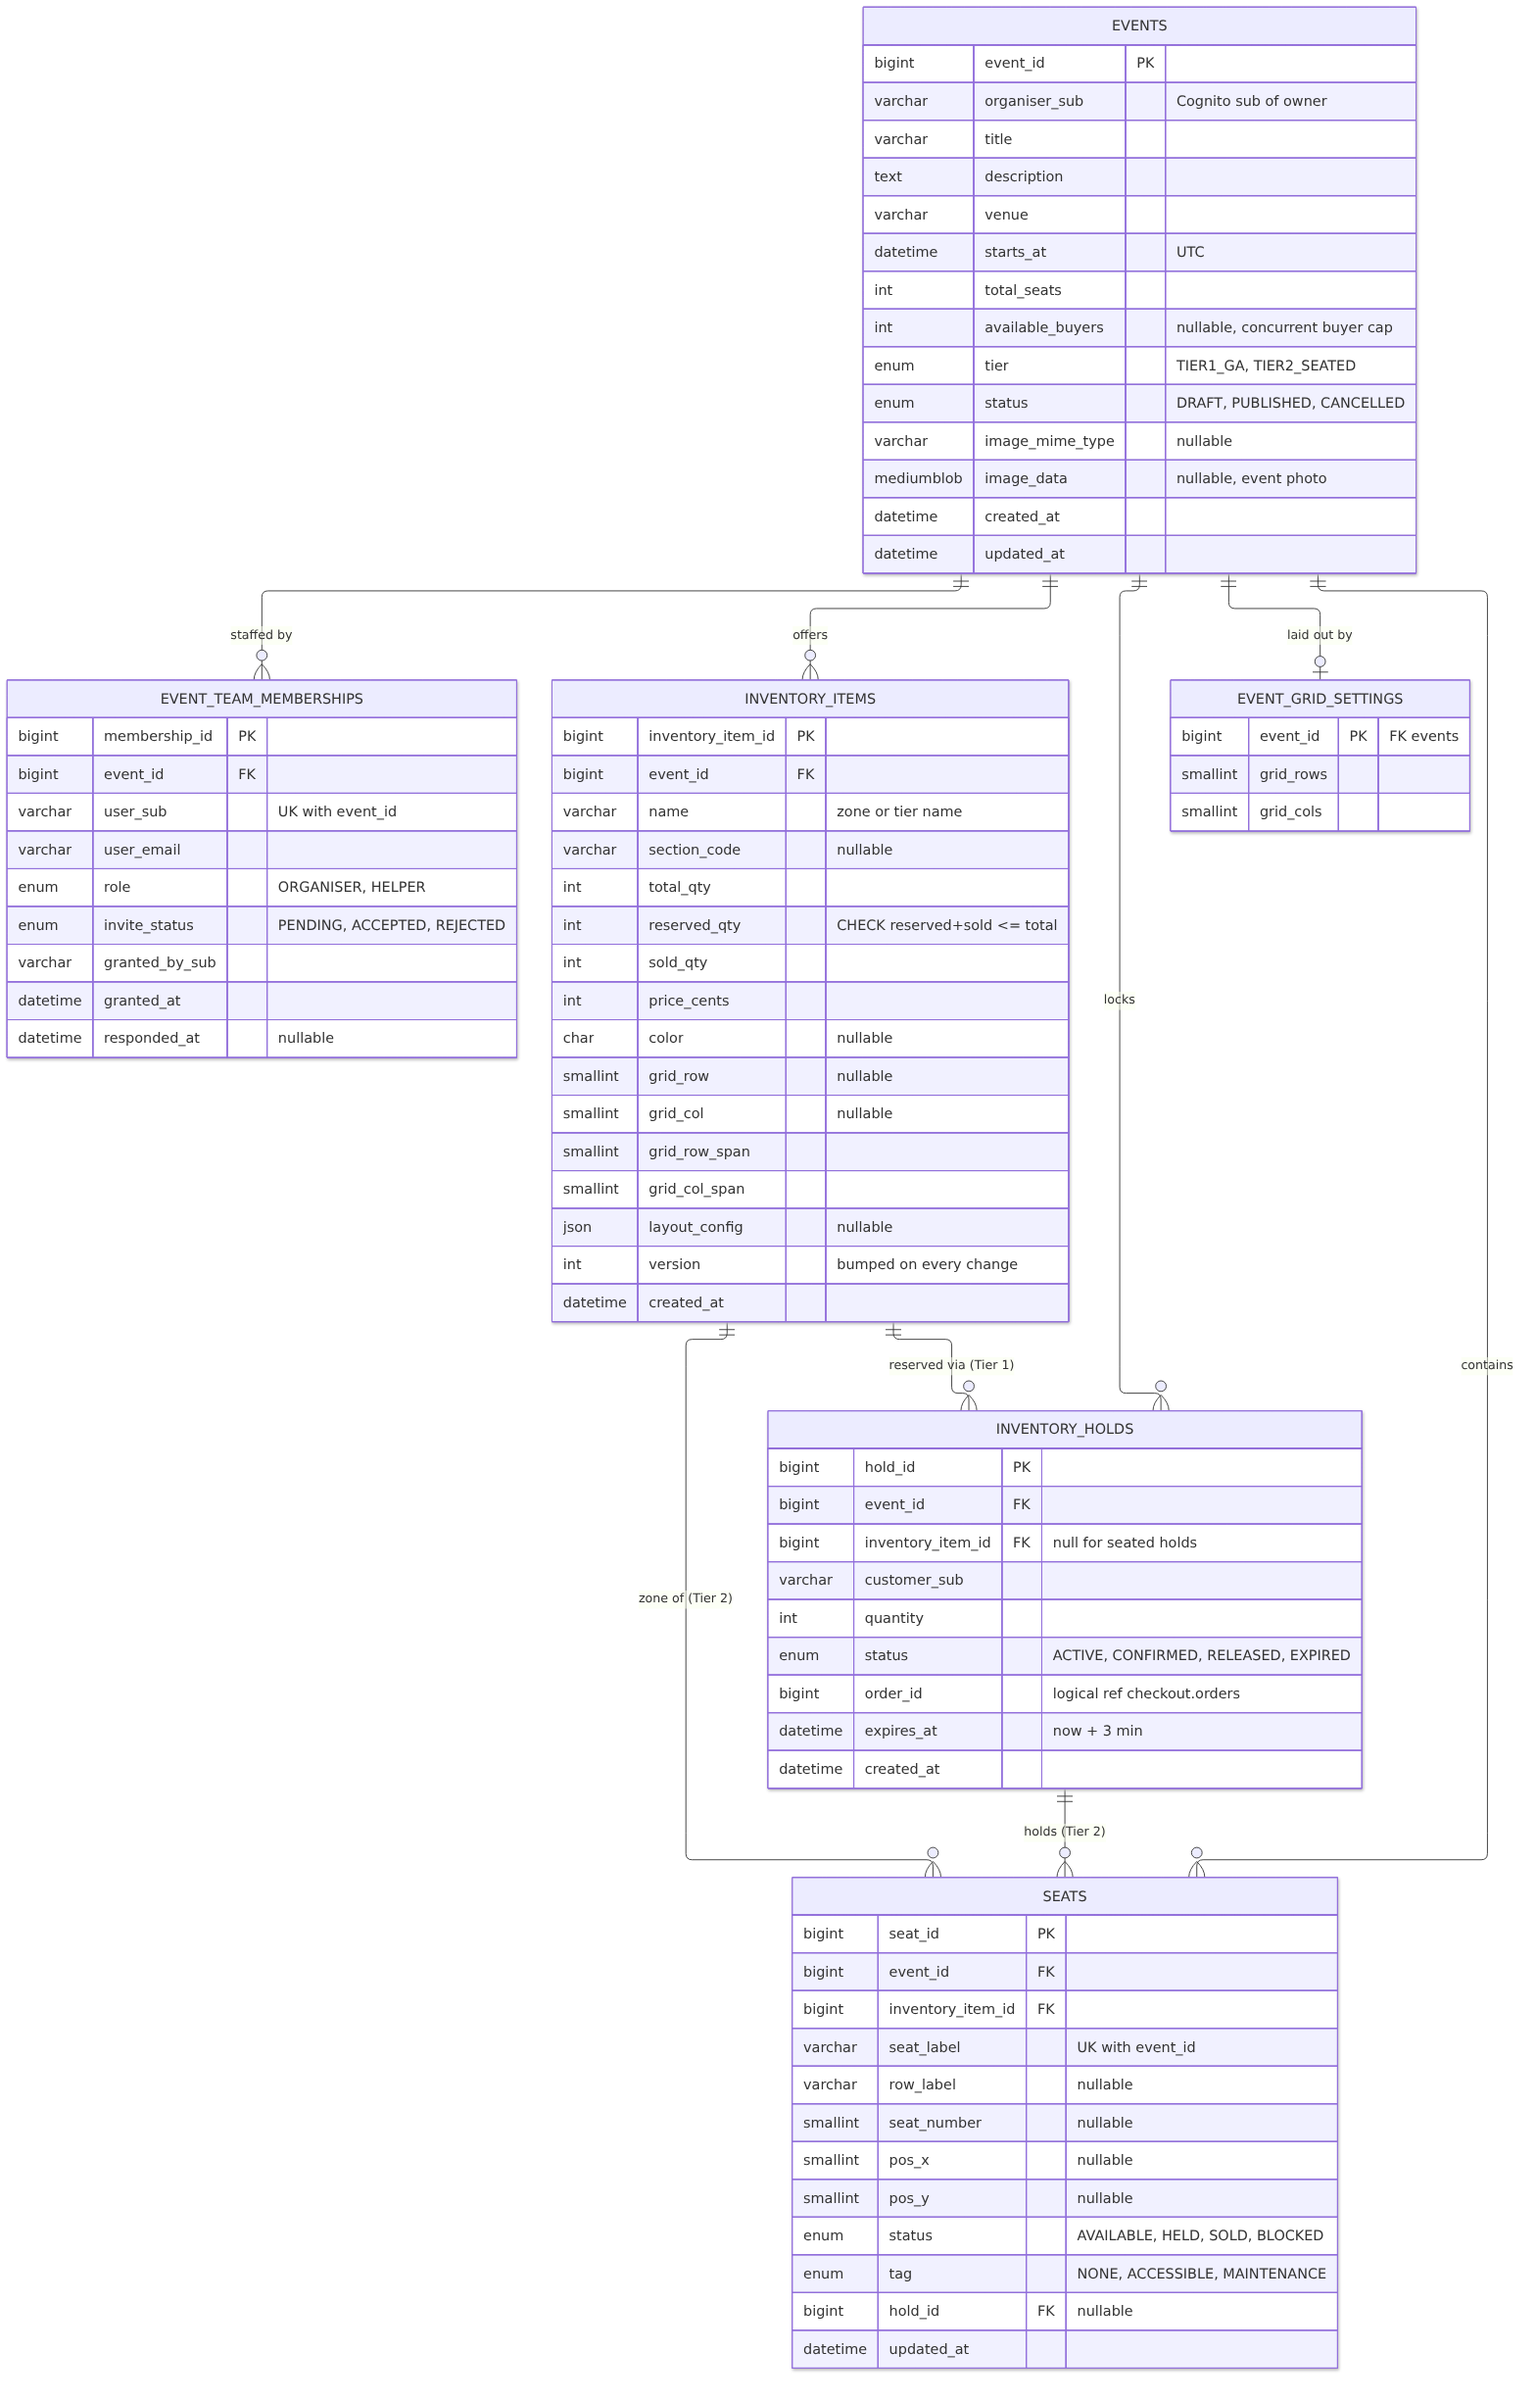
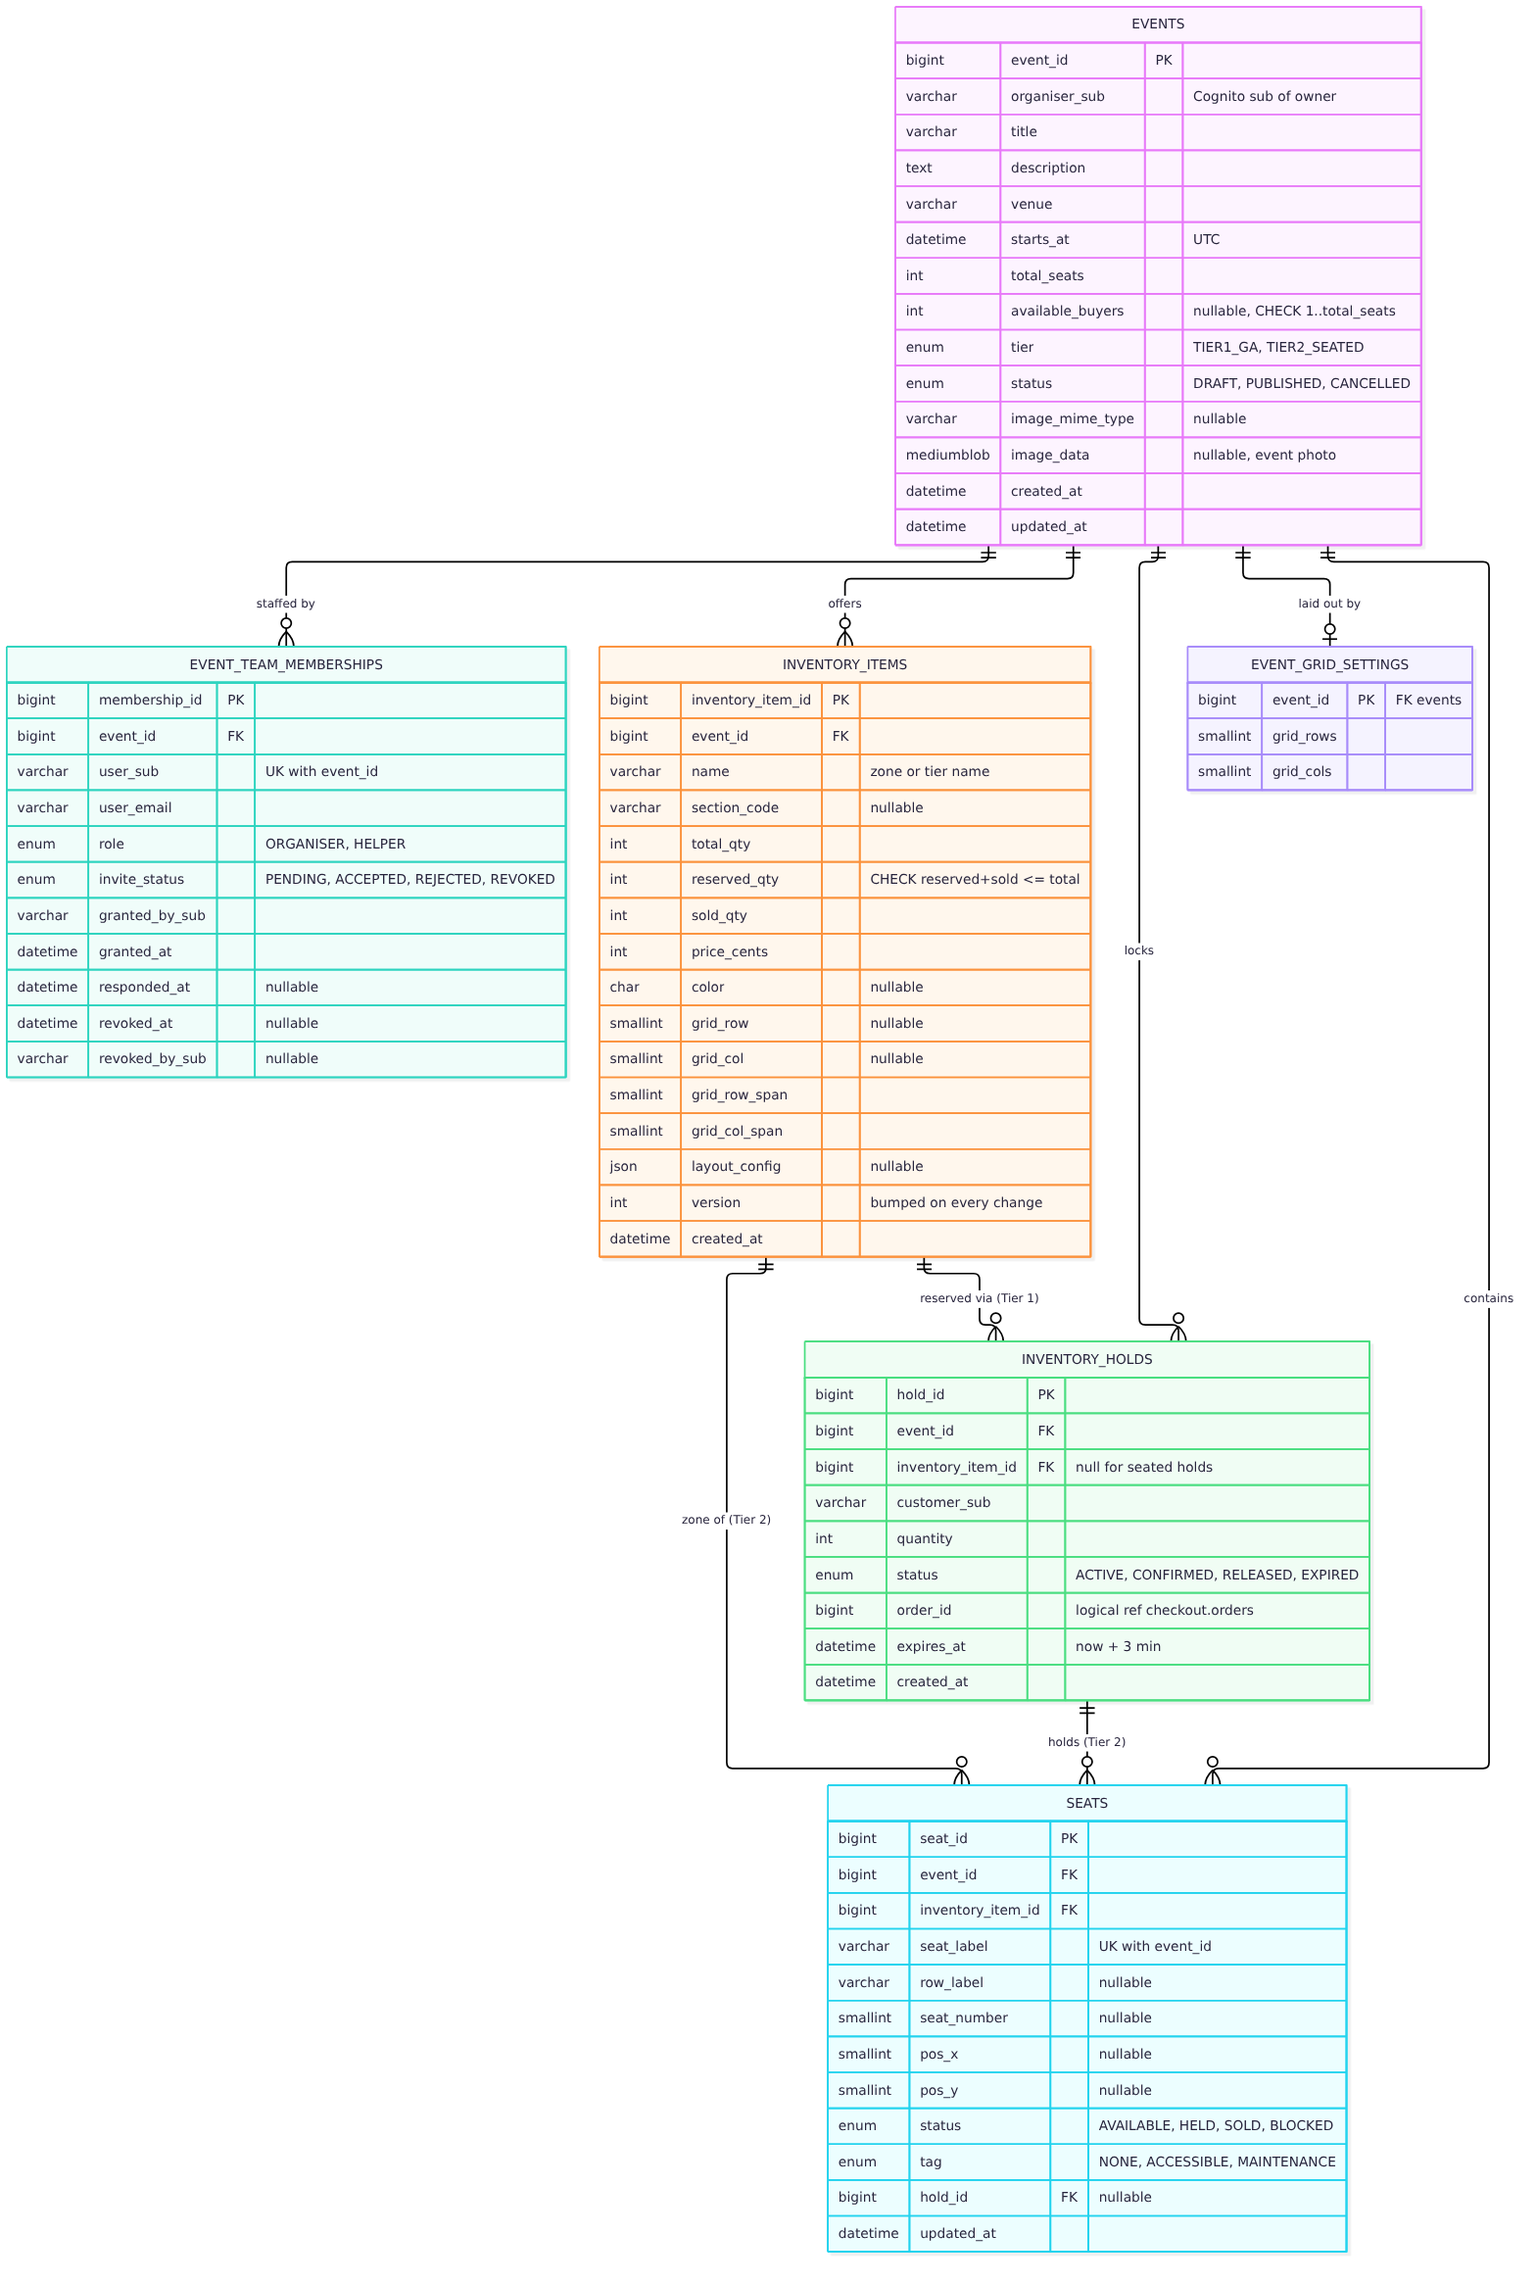
docs: record soft revoke of team membership (AISS-13 in testing)
The live event_inventory schema has invite_status REVOKED plus
revoked_at and revoked_by_sub on event_team_memberships. Update the
ERD (also noting the available_buyers CHECK) and the overview,
logical, persistence, limitations and API catalogue chapters, which
still described removal as a hard delete. Tracked in backend #109.

Changed region(s): [[0.0, 0.2472, 0.9062, 0.9888], [0.5625, 0.0, 0.9688, 0.3399], [0.75, 0.5562, 0.7812, 0.5871]]

diff --git a/architecture/07-architectural-limitations.md b/architecture/07-architectural-limitations.md
@@ -18,5 +18,5 @@ Table: Outstanding architectural issues
 | AISS-10 | Limited observability. Scaling and failures cannot be shown or diagnosed quickly; the DLQ alarm notifies no one | CloudWatch Logs only; no dashboard; Container Insights off; the correlation id from Kong is not passed between services; no tracing; the DLQ alarm has no action | CloudWatch dashboard in Terraform with golden signals, queue depth and task counts; Container Insights during tests; log `X-Request-Id` in every service; SNS topic for operational alarms; OpenTelemetry later | TBD | Open |
 | AISS-11 | No published API contract or versioning. Third parties and new clients must read code to integrate; breaking changes cannot be signalled | About 57 endpoints are documented only in "Appendix: API Catalogue"; there is no OpenAPI specification and no `/v1` prefix | Publish an OpenAPI specification for the core endpoints; add a version prefix at Kong; adopt the governance repository's API compatibility rules | TBD | Open |
 | AISS-12 | Unused components. An `auth` service runs a task that does nothing; the inventory service's `/holds` endpoints duplicate the order service's reserve path and are not called by the SPA | Both remain from the original design | Remove the `auth` service and its route, or give it a real job; remove or document the unused hold endpoints | TBD | Open |
-| AISS-13 | No audit trail of team access. After a member is removed, there is no record that they ever had access to the event | Removing a team member deletes the membership row; the original design's soft revoke was not built | Restore soft revoke (`status`, `revoked_at`) or write membership changes to an audit table. Tracked in backend #109 | TBD | Open |
+| AISS-13 | No audit trail of team access. After a member is removed, there is no record that they ever had access to the event | Removing a team member used to delete the membership row. Soft revoke is now built: the row is kept with `invite_status` `REVOKED`, `revoked_at` and `revoked_by_sub` | Finish testing soft revoke, then close. Tracked in backend #109 | TBD | In testing |
 | AISS-14 | Should-priority acceptance criteria not met | CU-05: no estimated wait time in the queue. OR-08: no attendee export (CSV). (OR-12 is met: only the event owner can remove organisers, nobody can remove themselves, so the owner always remains an organiser) | Compute an estimate from admission rate and position; add CSV export | TBD | Open (deferred) |

diff --git a/architecture/00-overview.md b/architecture/00-overview.md
@@ -66,5 +66,5 @@ Table: Where the build departed from the original design
 | Frontends | 3 SPAs (Buyer, Organiser Portal, Scanner) | 1 Angular SPA with role-based workspaces | One build, one deploy, one sign-in; roles are per event, so one person often needs all three | AD-08 |
 | Messaging | 1 SQS queue (`order-events`) | 3 queues + 1 DLQ | Payment became asynchronous; admission events were added for a future push channel | AD-05, AD-19, AISS-08 |
 | Payment | Synchronous `POST /orders/{id}/payment` | Asynchronous `payment-requests` (202 + polling); synchronous endpoint kept for compatibility | Resilience to slow payment providers; load levelling of checkout | AD-05 |
-| Team removal | Soft revoke (`REVOKED` status kept for audit) | Hard delete of the membership row; invitations add `PENDING`/`ACCEPTED`/`REJECTED` | Simpler invitation model chosen during build | AISS-13 |
+| Team removal | Soft revoke (`REVOKED` status kept for audit) | Soft revoke (`REVOKED` with `revoked_at`, `revoked_by_sub`); invitations add `PENDING`/`ACCEPTED`/`REJECTED` | First built as a hard delete for a simpler invitation model; soft revoke restored so past access stays auditable (in testing) | AISS-13 |
 | Compute | ECS on EC2 with capacity providers (ADR-0001) | ECS on Fargate (ADR-0003) | EC2 networking failures (NAT instance, ENI trunking) during deployment | AD-12 |

diff --git a/architecture/01-logical-architecture.md b/architecture/01-logical-architecture.md
@@ -86,7 +86,7 @@ Table: Logical architectural decisions
 
 **Decision.** `event_team_memberships` holds `(event_id, user_sub, role, invite_status)`. Creating an event inserts the creator as an accepted Organiser. Organisers invite others by email (the event service resolves the email to a Cognito user), and the invitee accepts or rejects. Every staff-only endpoint checks this table. Every other endpoint only needs a valid access token.
 
-**Trade-off and consequences.** Flexible teams, and any customer can become an organiser of their own event, which grows the platform. Each staff request costs one indexed lookup. Removal is a hard delete, so there is no audit trail of past access (AISS-13).
+**Trade-off and consequences.** Flexible teams, and any customer can become an organiser of their own event, which grows the platform. Each staff request costs one indexed lookup. Removal is a soft revoke: the row is kept as `REVOKED` with who revoked it and when, so past access stays auditable (AISS-13, in testing).
 
 ### AD-08 One SPA with role-based workspaces
 

diff --git a/architecture/08-api-catalogue.md b/architecture/08-api-catalogue.md
@@ -36,7 +36,7 @@ Table: Event service endpoints
 | GET | `/events/:eventId/users` | Users who can be invited | Organiser |
 | GET | `/events/:eventId/team-members` | Team roster | Organiser |
 | PATCH | `/events/:eventId/team-members/:userSub` | Change a member's role | Event owner (organisers); Organiser (helpers) |
-| DELETE | `/events/:eventId/team-members/:userSub` | Remove a member (hard delete; cannot remove yourself) | Event owner (organisers); Organiser (helpers) |
+| DELETE | `/events/:eventId/team-members/:userSub` | Remove a member (soft revoke to `REVOKED`; cannot remove yourself) | Event owner (organisers); Organiser (helpers) |
 | POST | `/events/:eventId/invitations` | Invite a user by email as Organiser or Helper | Organiser |
 | GET | `/team-invitations` | The caller's pending invitations | Signed in |
 | POST | `/team-invitations/:membershipId/:decision` | Accept or reject an invitation | Signed in (invitee) |

diff --git a/architecture/04-persistence-design.md b/architecture/04-persistence-design.md
@@ -135,7 +135,7 @@ No retention policy deletes personal data from MySQL yet. A production deploymen
 
 **Proposed storage technology.** MySQL, next to the data they describe, so they are written in the same transaction.
 
-**Security requirements and controls.** Logs must not be editable by users; no endpoint updates or deletes them. Team membership changes are not audited: removing a member deletes the row (AISS-13).
+**Security requirements and controls.** Logs must not be editable by users; no endpoint updates or deletes them. Removing a team member keeps the row as `REVOKED` with `revoked_at` and `revoked_by_sub`, so past access stays on record (AISS-13, in testing).
 
 **Trade-off consideration.** Keeping audit rows in the operational database is simple and transactional, but they grow without bound and share the database's single point of failure.
 
